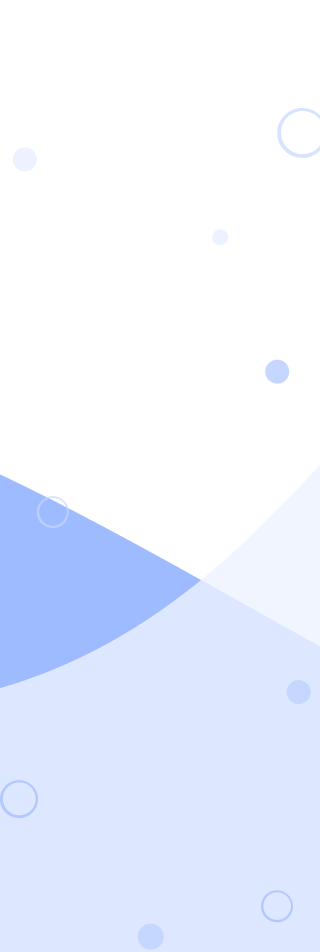
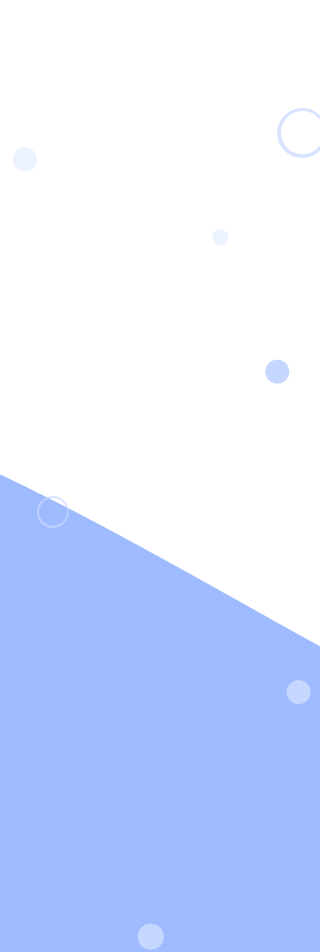
change bg, add semantic layout,

diff --git a/src/components/WhyDrinkWater/WhyDrinkWater.jsx b/src/components/WhyDrinkWater/WhyDrinkWater.jsx
@@ -1,31 +1,36 @@
+import Container from "../Container/Container";
 import css from "./WhyDrinkWater.module.css";
 export default function WhyDrinkWater() {
   return (
-    <div className={css.whyDrinkWater}>
-      <h3 className={css.whyDrinkWaterTitle}>Why drink water</h3>
-      <ul className={css.whyDrinkWaterList}>
-        <li className={css.whyDrinkWaterListItem}>
-          Supply of nutrients to all organs
-        </li>
-        <li className={css.whyDrinkWaterListItem}>
-          Providing oxygen to the lungs
-        </li>
-        <li className={css.whyDrinkWaterListItem}>
-          Maintaining the work of the heart
-        </li>
-        <li className={css.whyDrinkWaterListItem}>
-          Release of processed substances
-        </li>
-        <li className={css.whyDrinkWaterListItem}>
-          Ensuring the stability of the internal environment
-        </li>
-        <li className={css.whyDrinkWaterListItem}>
-          Maintaining within the normal temperature
-        </li>
-        <li className={css.whyDrinkWaterListItem}>
-          Maintaining an immune system capable of resisting disease
-        </li>
-      </ul>
-    </div>
+    <section className={css.whyDrinkWater}>
+      <Container>
+        <div className={css.whyDrinkWaterContent}>
+          <h3 className={css.whyDrinkWaterTitle}>Why drink water</h3>
+          <ul className={css.whyDrinkWaterList}>
+            <li className={css.whyDrinkWaterListItem}>
+              Supply of nutrients to all organs
+            </li>
+            <li className={css.whyDrinkWaterListItem}>
+              Providing oxygen to the lungs
+            </li>
+            <li className={css.whyDrinkWaterListItem}>
+              Maintaining the work of the heart
+            </li>
+            <li className={css.whyDrinkWaterListItem}>
+              Release of processed substances
+            </li>
+            <li className={css.whyDrinkWaterListItem}>
+              Ensuring the stability of the internal environment
+            </li>
+            <li className={css.whyDrinkWaterListItem}>
+              Maintaining within the normal temperature
+            </li>
+            <li className={css.whyDrinkWaterListItem}>
+              Maintaining an immune system capable of resisting disease
+            </li>
+          </ul>
+        </div>
+      </Container>
+    </section>
   );
 }

diff --git a/src/components/WaterСonsumptionTracker/WaterСonsumptionTracker.jsx b/src/components/WaterСonsumptionTracker/WaterСonsumptionTracker.jsx
@@ -1,32 +1,33 @@
+import Container from "../Container/Container";
 import css from "./WaterСonsumptionTracker.module.css";
-import { IoCalendarOutline } from "react-icons/io5";
 import { HiOutlineCalendarDays } from "react-icons/hi2";
 import { HiOutlinePresentationChartBar } from "react-icons/hi2";
 import { HiOutlineWrenchScrewdriver } from "react-icons/hi2";
-import TryTrackerButton from "../TryTrackerButton/TryTrackerButton";
+import TryTrackerButton from "../TryTrackerButton.jsx/TryTrackerButton";
 
 export default function WaterСonsumptionTracker() {
   return (
-    <div className={css.waterСonsumption}>
-      <h1 className={css.welcomeTitle}>Water consumption tracker</h1>
-      <h2 className={css.welcomeText}>Record daily water intake and track</h2>
-      <h3 className={css.welcomeBenefitsTitle}>Tracker Benefits</h3>
-      <ul className={css.welcomeList}>
-        <li className={css.welcomeListItem}>
-          <HiOutlineCalendarDays className={css.welcomeSvg} />
-          <p>Habit drive</p>
-        </li>
-        <li className={css.welcomeListItem}>
-          <HiOutlinePresentationChartBar className={css.welcomeSvg} />
-          <p>View statistics</p>
-        </li>
-        <li className={css.welcomeListItem}>
-          <HiOutlineWrenchScrewdriver className={css.welcomeSvg} />
-          <p>Personal rate setting</p>
-        </li>
-      </ul>
-
-      <TryTrackerButton />
-    </div>
+    <section className={css.waterСonsumption}>
+      <Container>
+        <h1 className={css.welcomeTitle}>Water consumption tracker</h1>
+        <h2 className={css.welcomeText}>Record daily water intake and track</h2>
+        <h3 className={css.welcomeBenefitsTitle}>Tracker Benefits</h3>
+        <ul className={css.welcomeList}>
+          <li className={css.welcomeListItem}>
+            <HiOutlineCalendarDays className={css.welcomeSvg} />
+            <p>Habit drive</p>
+          </li>
+          <li className={css.welcomeListItem}>
+            <HiOutlinePresentationChartBar className={css.welcomeSvg} />
+            <p>View statistics</p>
+          </li>
+          <li className={css.welcomeListItem}>
+            <HiOutlineWrenchScrewdriver className={css.welcomeSvg} />
+            <p>Personal rate setting</p>
+          </li>
+        </ul>
+        <TryTrackerButton />
+      </Container>
+    </section>
   );
 }

diff --git a/src/components/Main/Main.jsx b/src/components/Main/Main.jsx
@@ -1,14 +1,11 @@
-import Container from "../Container/Container";
 import WhyDrinkWater from "../WhyDrinkWater/WhyDrinkWater";
 import WaterСonsumptionTracker from "../WaterСonsumptionTracker/WaterСonsumptionTracker";
 import css from "./Main.module.css";
 export default function Main() {
   return (
-    <section className={css.welcomeSection}>
-      <Container>
-        <WaterСonsumptionTracker />
-        <WhyDrinkWater />
-      </Container>
-    </section>
+    <main className={css.welcomeSection}>
+      <WaterСonsumptionTracker />
+      <WhyDrinkWater />
+    </main>
   );
 }

diff --git a/src/components/WhyDrinkWater/WhyDrinkWater.module.css b/src/components/WhyDrinkWater/WhyDrinkWater.module.css
@@ -6,18 +6,19 @@
   line-height: 1.11111;
   color: var(--primary-color-black);
 }
-
 .whyDrinkWater {
+  padding-bottom: 40px;
+}
+.whyDrinkWaterContent {
   display: flex;
   align-items: flex-start;
   justify-content: flex-start;
   flex-direction: column;
   gap: 12px;
   border-radius: 10px;
-  padding: 24px 16px;
+  padding: 23px 16px;
   box-shadow: 0 4px 14px 0 rgba(64, 123, 255, 0.3);
   background: var(--secondary-color-smoke-white);
-  padding: 24px 16px 10px;
 }
 .whyDrinkWaterList {
   padding-left: 0;

diff --git a/src/components/Main/Main.module.css b/src/components/Main/Main.module.css
@@ -3,5 +3,4 @@
   background-repeat: no-repeat;
   background-position: bottom;
   background-size: 100% auto;
-  padding-bottom: 40px;
 }
